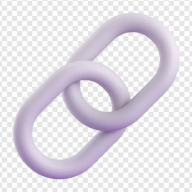
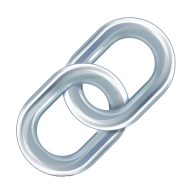
Add files via upload

diff --git a/index.html b/index.html
@@ -526,8 +526,11 @@
         .category-section::before {
             content: attr(data-watermark);
             position: absolute;
-            bottom: 6px; right: 8px;
-            top: auto;
+            top: 34px; /* sous le header */
+            bottom: 0;
+            right: 8px;
+            margin: auto 0;
+            height: 62px; /* = font-size, pour que margin:auto fonctionne */
             font-size: 62px;
             line-height: 1;
             opacity: 0.06;
@@ -1218,8 +1221,11 @@
         .theme-saphir .category-section::before {
             content: attr(data-watermark);
             position: absolute;
-            bottom: 6px; right: 8px;
-            top: auto;
+            top: 34px;
+            bottom: 0;
+            right: 8px;
+            margin: auto 0;
+            height: 62px;
             font-size: 62px;
             opacity: 0.05;
             line-height: 1;
@@ -1647,7 +1653,7 @@
         .theme-cirrus .search-mode-opt:hover { background: rgba(74,170,216,0.1) !important; }
         .theme-cirrus .menu-item.active { background: rgba(42,138,200,0.15) !important; color: #1a5a8a !important; }
         /* Filigrane plus visible sur fond clair */
-        .theme-cirrus .category-section::before { opacity: 0.13; }
+        .theme-cirrus .category-section::before { opacity: 0.10; }
         body.theme-aero {
             --bg-subtle: rgba(0,200,255,0.1);
             --surface: transparent;